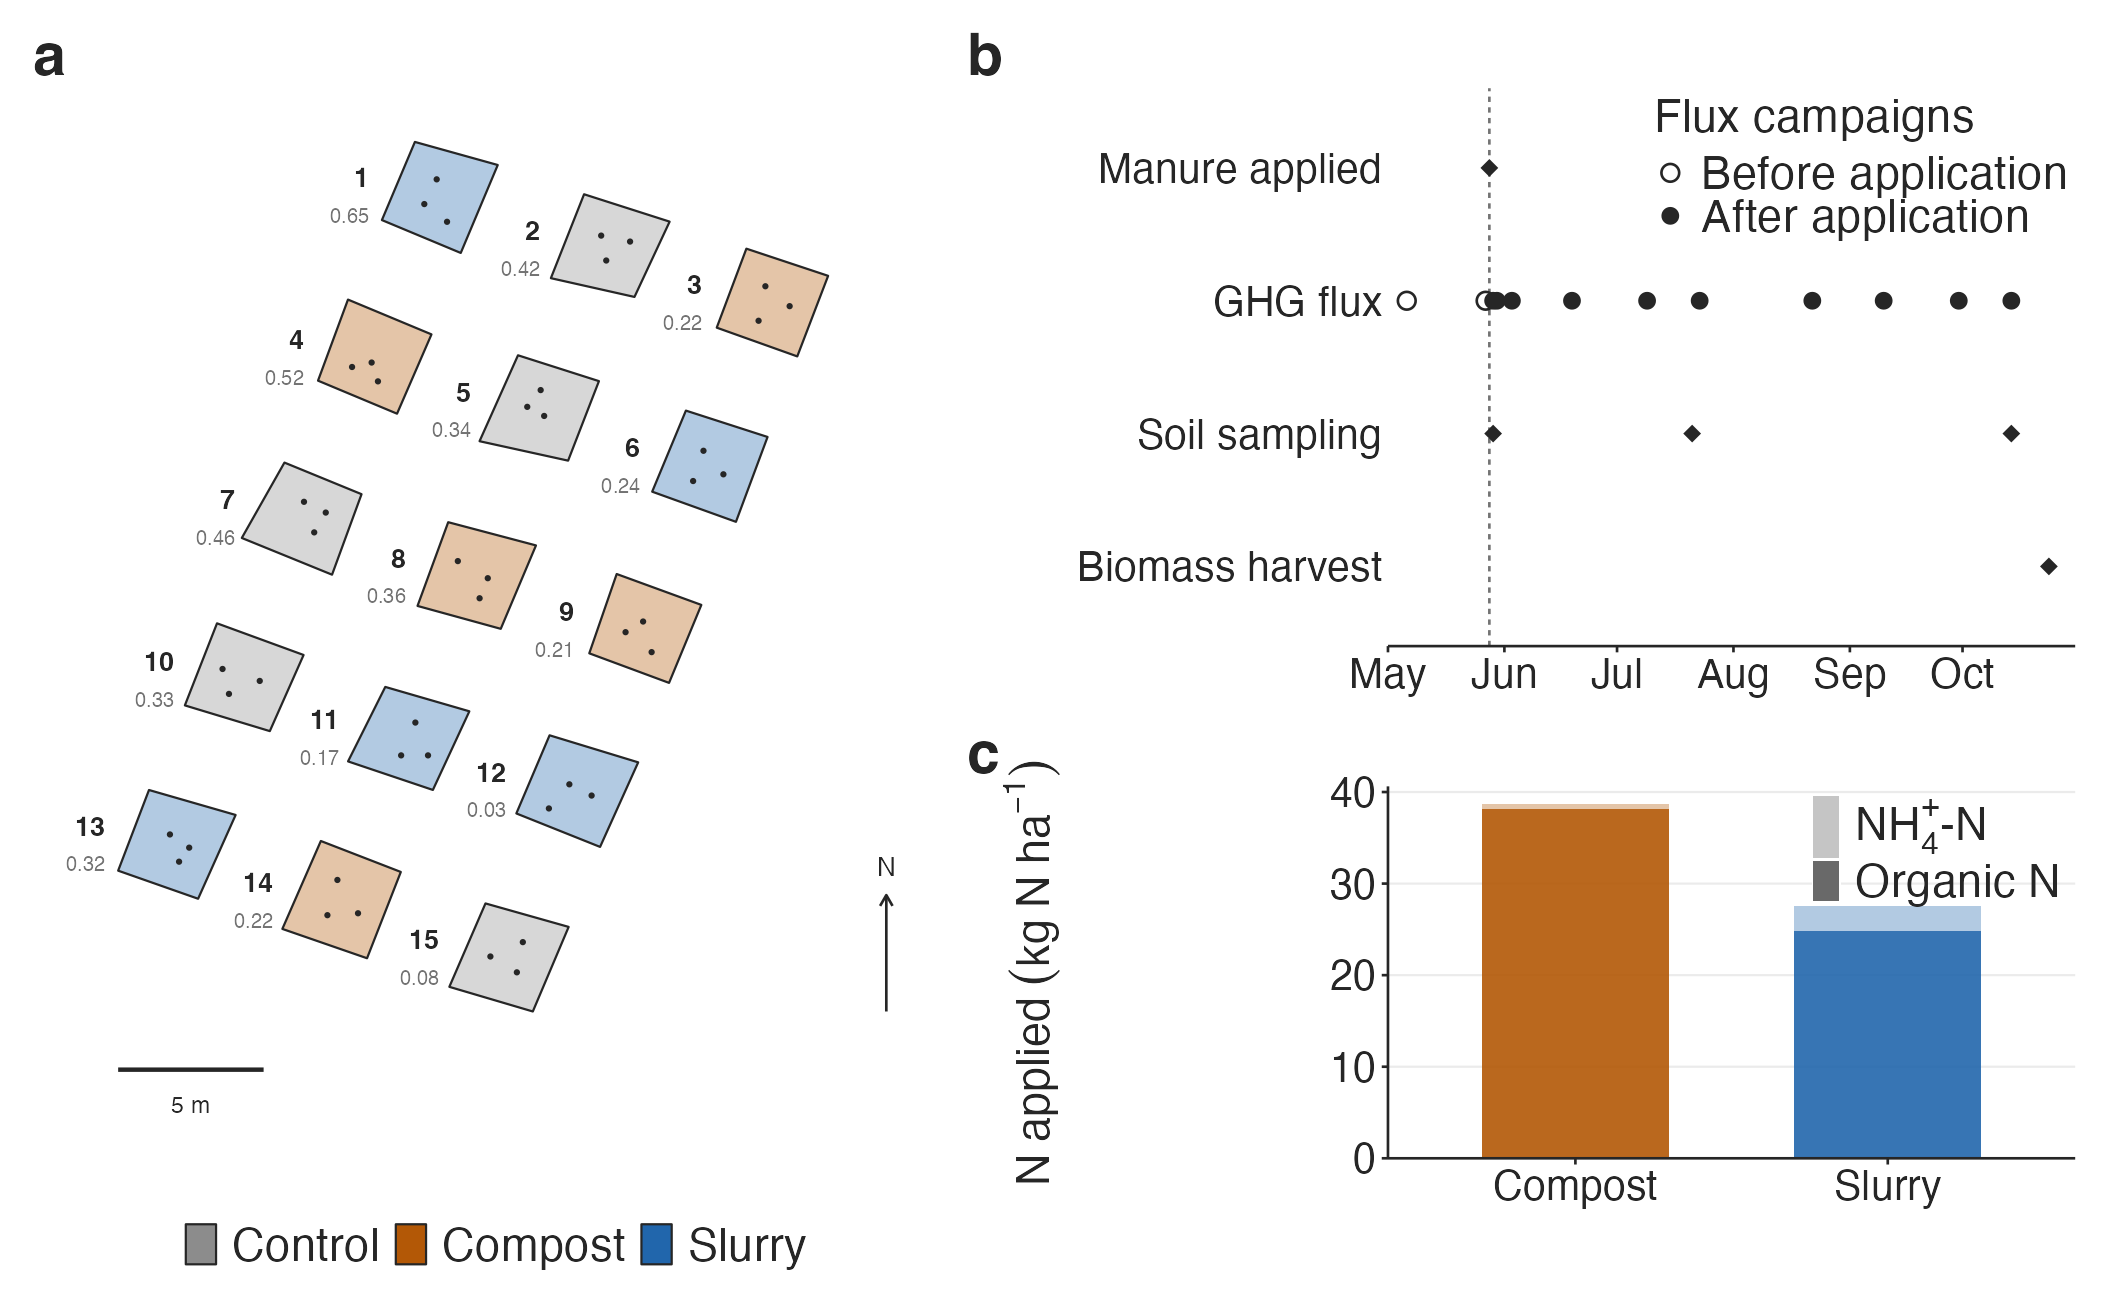
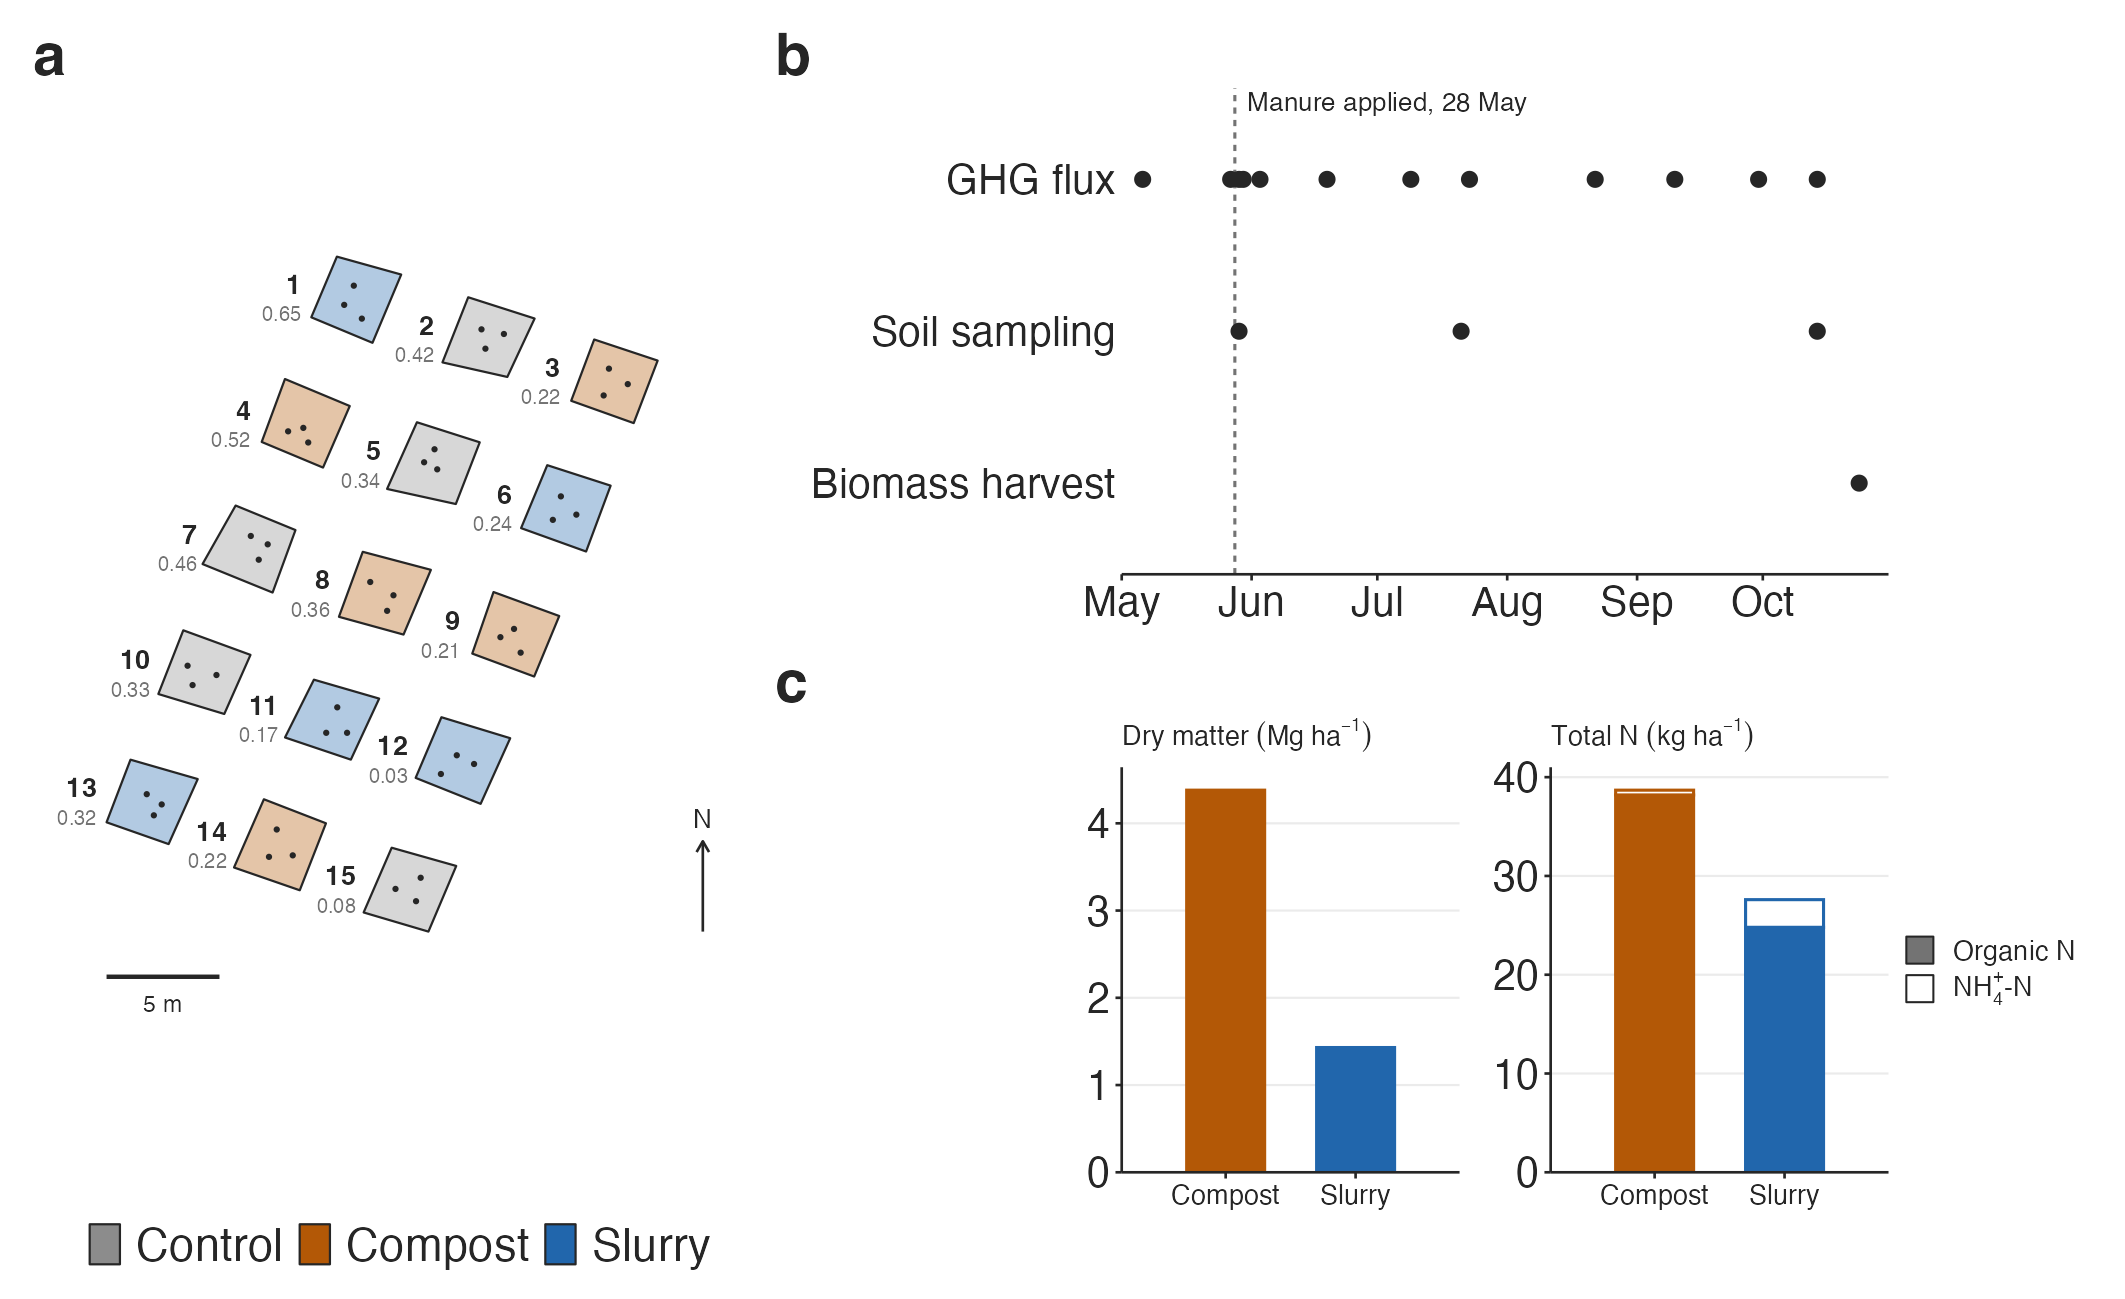
Fig 1: timeline without legend (application labeled on the dashed line); 1c shows dry matter and total N applied (organic filled, NH4+ open)

diff --git a/output/figures/captions.md b/output/figures/captions.md
@@ -8,8 +8,8 @@ Treatment encoding is the same in every figure: control is a grey circle, compos
 
 **Figure 1. Study design.**
 (a) Plot layout from the RTK-GPS survey (UTM 18N, north up): 3 × 3 m plots shaded by treatment, flux collars as dots, plot numbers, and plot-mean elevation above the lowest corner (m; total relief 0.85 m). Treatments are balanced for elevation, position, edge location and pre-application moisture and fluxes (36_spatial.R).
-(b) Timeline: manure application (28 May 2025), flux campaigns (open before application, filled after), soil samplings and the October biomass harvest.
-(c) N applied per area, split into organic N and NH4+-N (compost 38.7 kg N ha−1 with 1% as NH4+; slurry 27.5 kg N ha−1 with 10% as NH4+; Table 1).
+(b) Timeline of flux campaigns, soil samplings and the October biomass harvest; the dashed line marks manure application (28 May 2025).
+(c) Dry matter and total N applied per hectare (compost 4.4 Mg DM and 38.7 kg N ha−1; slurry 1.4 Mg DM and 27.5 kg N ha−1), with total N split into organic N (filled) and NH4+-N (open; 1% of N in compost, 10% in slurry). Details in Table 1.
 
 **Figure 2. Soil greenhouse-gas fluxes through the season.**
 (a) Soil temperature and (b) volumetric water content at each campaign, from the handheld probes at 10 cm (mean ± SE). Triangles mark the soil samplings (the harvest date is shown in Fig. 1b). The open symbol is 22 Aug, where temperature was gap-filled from the chamber probe (see Methods).
@@ -70,7 +70,7 @@ Results:
   - (d–f) The same data coloured by the second driver, with model curves at fixed levels of that driver.
 - **S2. Soil pH, organic matter, CEC, base saturation and Mehlich-3 P, K, Ca and Mg for all plots at each soil sampling.** No treatment differences.
 - **S3. Soil conditions.**
-  - (a) Gravimetric soil moisture at sampling. Amended plots were at most 0.018 g g−1 (≤8%) wetter than controls, a difference also present in field VWC before application.
+  - (a) Gravimetric soil moisture at sampling. Amended plots averaged 0.008 (compost) and 0.013 g g−1 (slurry) wetter than controls (4% and 7%), a difference also present in field VWC before application.
   - (b) Covariation of soil temperature and moisture from the handheld probe (r ≈ −0.3 across collars), which is why the two drivers could be separated in Fig. S1.
 - **S4. C-mineralization time courses (20 °C, 65% WHC).** Thin lines are individual plots. The 16 Dec reading of round 3 is excluded: tube identity was uncertain and the standards were anomalous.
 - **S5. Extractable N pools at day 0 and day 28 of each incubation, and net nitrification.** Initial extractions were made at incubation setup, about 5, 14 and 42 days after sampling (soils at 4 °C), so the NH4+:NO3− split and net nitrification are not comparable across samplings.
